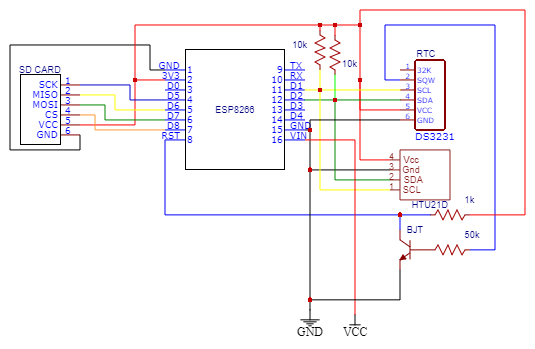
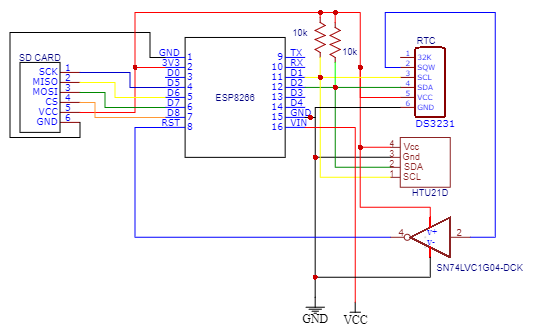
Add new schematic with CMOS Inverter Gate Logic and update list of components in README

Changed region(s): [[0.0, 0.0, 0.9888, 0.9821], [0.3895, 0.2679, 0.4794, 0.3274]]

diff --git a/README.md b/README.md
@@ -13,9 +13,7 @@ This is the development of a low-cost weather station. Low cost is related to po
 - SD CARD MODULE
 - HTU21D SENSOR
 - 2 10K OHMS RESISTORS
-- 1 1k OHM RESISTOR
-- 1 50K OHMS RESISTOR
-- 1 BIPOLAR JUNCTION TRANSISTOR
+- 1 CMOS INVERTER GATE
 
 ## Schematic
 
